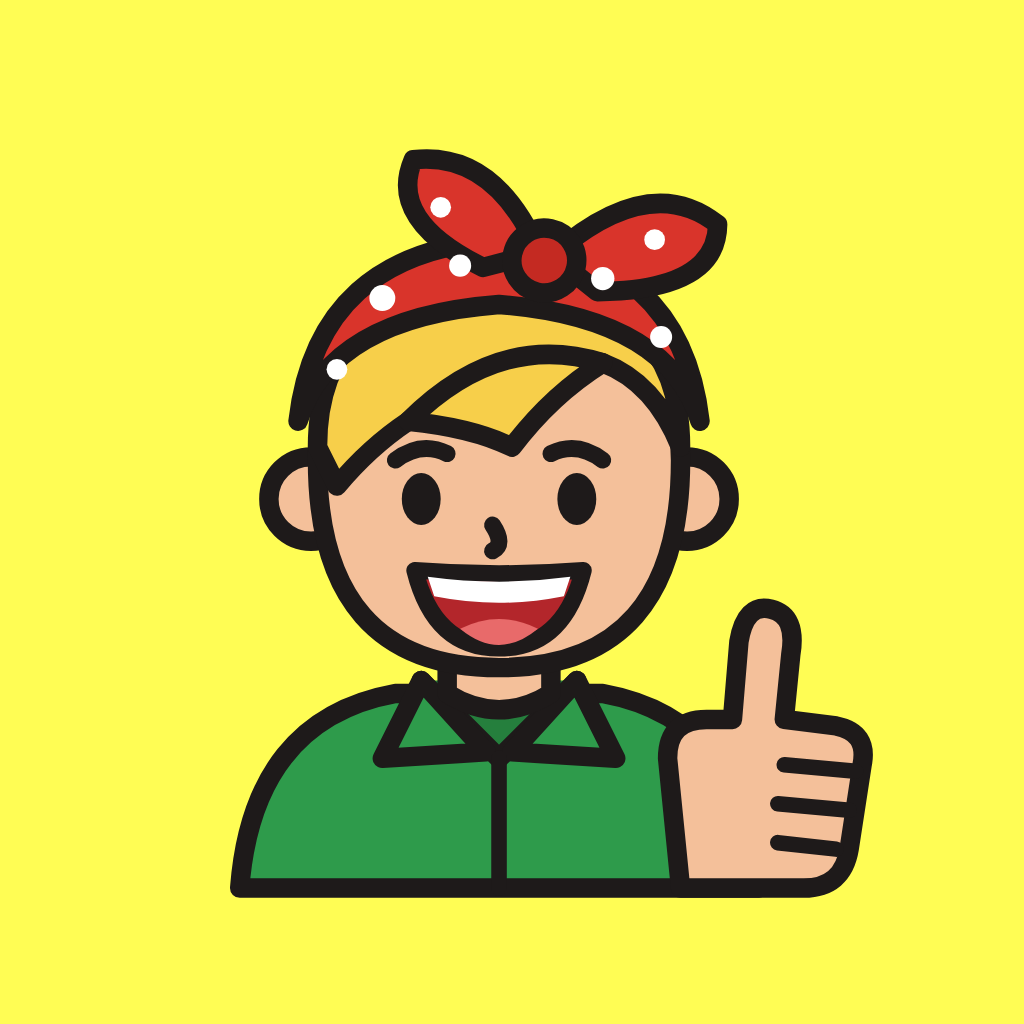
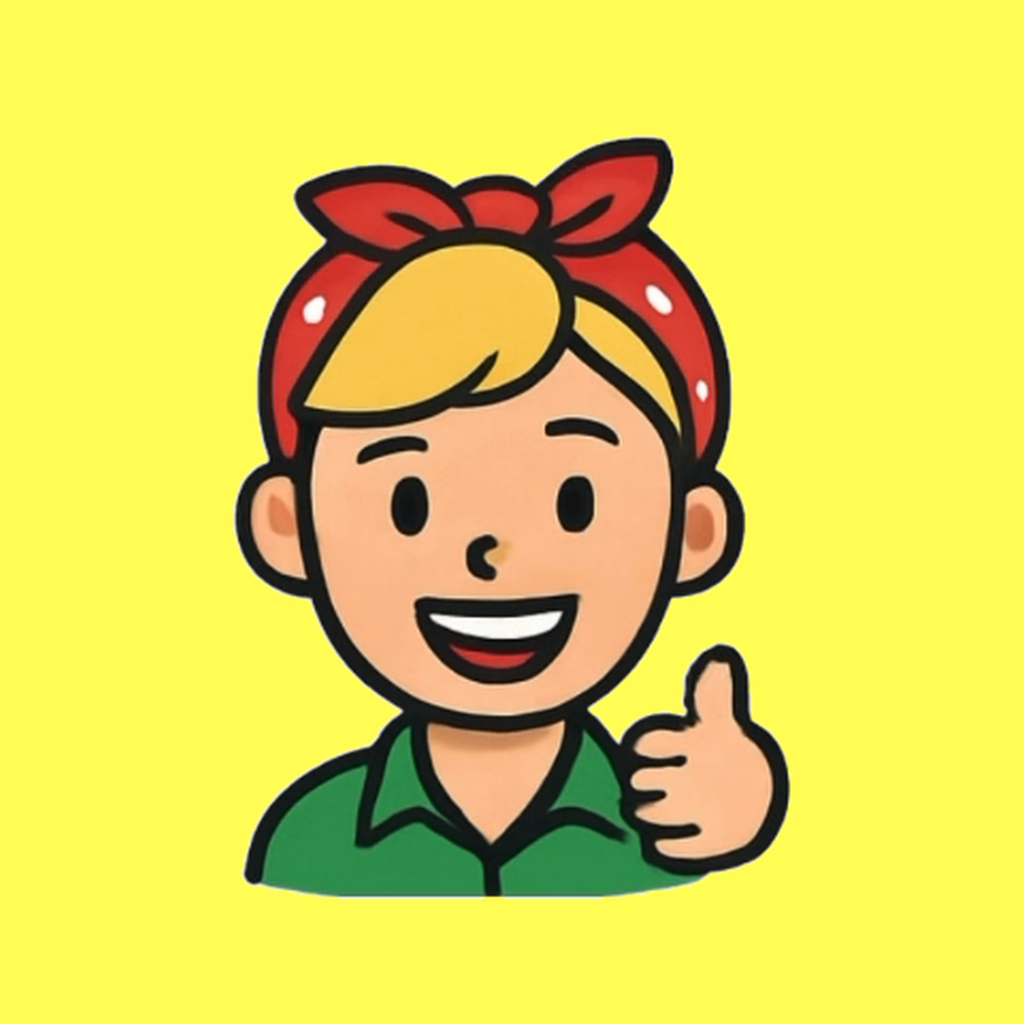
Use the real Bis Bytes artwork for Bis instead of a redrawing
Claude-Session: https://claude.ai/code/session_011XPjN4JHJbjTbiA4cyU9EL

Changed region(s): [[0.2188, 0.125, 0.875, 0.9062]]

diff --git a/src/components/bis.tsx b/src/components/bis.tsx
@@ -1,49 +1,20 @@
 import { Linking, Pressable, StyleSheet, View } from 'react-native';
-import { SvgXml } from 'react-native-svg';
+import { Image } from 'expo-image';
 
 import { Txt } from '@/components/ui';
 import { BRAND } from '@/lib/brand';
 import { colors } from '@/theme';
 
-/** Bis, the Bis Bytes mascot: red polka-dot bandana, blonde bangs, green shirt and a thumbs up. Same drawing as assets/images/bis.svg. */
-export const BIS_XML = `<svg xmlns="http://www.w3.org/2000/svg" viewBox="0 0 120 120">
-  <g stroke="#1E1A1A" stroke-width="3" stroke-linejoin="round" stroke-linecap="round">
-    <path d="M18 118 Q20 92 42 88 L74 88 Q96 92 98 118 Z" fill="#2E9B4B"/>
-    <path d="M46 86 L58 98 L70 86" fill="#257F3D"/>
-    <path d="M46 86 L40 98 L56 97 Z M70 86 L76 98 L60 97 Z" fill="#2E9B4B"/>
-    <path d="M58 98 L58 118" fill="none" stroke-width="2.4"/>
-    <path d="M50 78 L50 88 Q58 93 66 88 L66 78 Z" fill="#F4C09A"/>
-    <circle cx="29" cy="58" r="6.5" fill="#F4C09A"/>
-    <circle cx="87" cy="58" r="6.5" fill="#F4C09A"/>
-    <path d="M30 52 Q30 84 58 84 Q86 84 86 52 Q86 30 58 30 Q30 30 30 52 Z" fill="#F4C09A"/>
-    <path d="M30 50 Q30 26 58 25 Q86 26 86 50 Q82 40 74 37 Q60 34 44 46 Q38 50 33 56 Z" fill="#F7CF4A"/>
-    <path d="M44 46 Q58 32 74 37 Q66 42 60 50 Q54 47 44 46 Z" fill="#F7CF4A"/>
-    <path d="M27 46 Q30 20 58 18 Q86 20 89 46 Q84 30 58 28 Q32 30 27 46 Z" fill="#D9342B"/>
-    <g transform="rotate(12 64 21) translate(4 0)"><path d="M60 20 Q50 6 38 10 Q36 20 52 24 Z" fill="#D9342B"/>
-    <path d="M62 20 Q74 4 86 10 Q88 20 70 24 Z" fill="#D9342B"/>
-    <circle cx="61" cy="21" r="5" fill="#C42A22"/></g>
-  </g>
-  <g fill="#FFFFFF">
-    <circle cx="40" cy="27" r="2"/><circle cx="52" cy="22" r="1.7"/><circle cx="74" cy="24" r="1.8"/><circle cx="83" cy="33" r="1.7"/>
-    <circle cx="33" cy="38" r="1.6"/><circle cx="49" cy="13" r="1.6"/><circle cx="82" cy="18" r="1.6"/>
-  </g>
-  <g stroke="#1E1A1A" stroke-width="2.6" stroke-linecap="round" fill="none">
-    <path d="M42 52 Q46 49 50 51"/><path d="M66 51 Q70 49 74 52"/>
-    <path d="M57 62 Q59 65 57 66"/>
-  </g>
-  <ellipse cx="46" cy="58" rx="3" ry="4" fill="#1E1A1A"/>
-  <ellipse cx="70" cy="58" rx="3" ry="4" fill="#1E1A1A"/>
-  <path d="M45 69 Q58 70 71 69 Q68 81 58 81 Q48 81 45 69 Z" fill="#B3262B" stroke="#1E1A1A" stroke-width="2.6" stroke-linejoin="round"/>
-  <path d="M47 70 Q58 71.5 69 70 L68 73 Q58 75 48 73 Z" fill="#FFFFFF"/>
-  <path d="M52 78 Q58 75 64 78 Q61 80.5 58 80.5 Q55 80.5 52 78 Z" fill="#E86A6A"/>
-  <g stroke="#1E1A1A" stroke-width="3" stroke-linejoin="round" stroke-linecap="round" fill="#F4C09A">
-    <path d="M86 118 L84 98 Q84 92 90 92 L94 92 L95 80 Q96 74 100 75 Q104 76 103 82 L102 92 L110 93 Q115 94 114 99 L112 112 Q111 118 105 118 Z"/>
-    <path d="M102 99 L113 100 M101 105 L112 106 M101 111 L110 112" fill="none" stroke-width="2.4"/>
-  </g>
-</svg>`;
-
+/** Bis, the Bis Bytes mascot, from the Bis Bytes artwork. */
 export function Bis({ size = 64 }: { size?: number }) {
-  return <SvgXml xml={BIS_XML} width={size} height={size} accessibilityLabel="Bis, the Bis Bytes mascot" />;
+  return (
+    <Image
+      source={require('@/assets/images/bis.png')}
+      style={{ width: size, height: size }}
+      contentFit="contain"
+      accessibilityLabel="Bis, the Bis Bytes mascot"
+    />
+  );
 }
 
 /** The cover logo: Bis and the name. */
